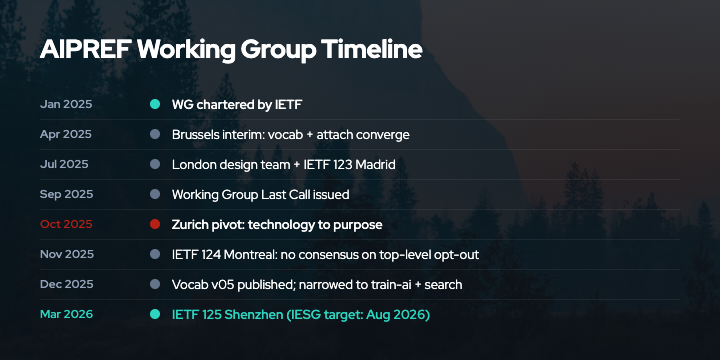
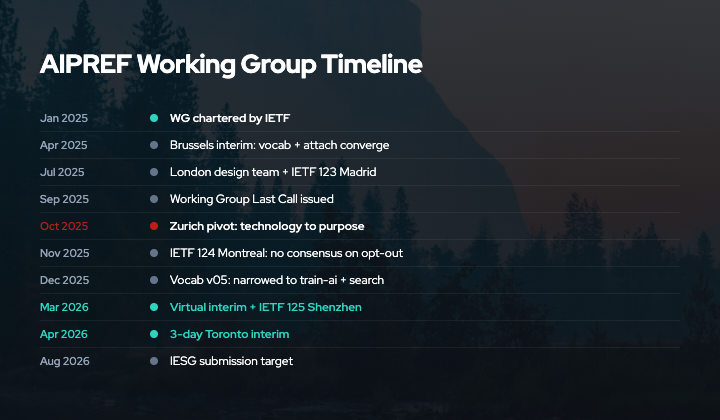
Add upcoming AIPREF events, open debates, and new references

diff --git a/venom-src/src/content/blog/understanding-aipref-ietf-standard.md b/venom-src/src/content/blog/understanding-aipref-ietf-standard.md
@@ -165,6 +165,10 @@ The pivot initially proposed additional categories ("AI Output" for generative A
 
 The pivot also means the drafts are still evolving. The current vocabulary (version 05, December 2025) and attachment mechanism (version 04, October 2025) reflect the new approach but have not yet achieved consensus<sup><a href="#ref-10">10</a></sup>. At IETF 124 in Montreal (November 2025), the working group held two sessions on the vocabulary and attachment mechanism. One key unresolved question: whether to add a top-level opt-out category that would let publishers reject all AI-related uses with a single preference. Proponents want a broad opt-out mechanism; opponents argue it could inhibit beneficial uses like accessibility tools. The chairs committed to gathering specific use cases on the mailing list before deciding.
 
+Several open questions remain as of early 2026. The "substitutive use" gap -- AI outputs that replace or reduce the value of original content, like news summaries or style mimicry -- is not covered by `train-ai` or `search`. An individual draft proposes a new category for this<sup><a href="#ref-22">22</a></sup>. The definition of "search" itself is contested: where does traditional web search end and RAG-powered AI summarization begin? And a separate draft raises the question of end-user preferences versus publisher preferences<sup><a href="#ref-23">23</a></sup> -- site operators control preference signals, but they do not necessarily own all content on their sites. The working group has not yet addressed user-generated content scenarios.
+
+On the mailing list, a debate about legal enforceability has intensified. The vocab specification says preferences "do not themselves create rights or prohibitions," but participants are debating whether a standards-track RFC creates de facto legal standing in jurisdictions with TDM laws or AI-specific regulations. A separate technical question surfaced in February 2026: when an HTTP `Content-Usage` header and a robots.txt `Content-Usage` directive give conflicting preferences for the same path, the resolution semantics need clarification.
+
 ## Timeline and Current Status
 
 ![AIPREF timeline from January 2025 charter through Brussels, Bangkok, London, Madrid, WGLC, Zurich pivot, IETF 124 Montreal, to IETF 125 Shenzhen](/images/diagrams/aipref-timeline.png)
@@ -181,10 +185,14 @@ The pivot also means the drafts are still evolving. The current vocabulary (vers
 - **IETF 124, Montreal** (November 2025): Two sessions; consensus reached on separating "search" from other AI uses, but no consensus on a top-level opt-out category
 - **November 2025**: "AI Output" and "Automated Processing" categories removed from vocabulary draft, narrowing back to two categories (`train-ai`, `search`)
 - **December 2025**: Updated vocabulary draft (v05) published reflecting refined purpose-based approach<sup><a href="#ref-3">3</a></sup>
-- **IETF 125, Shenzhen** (March 2026): Next scheduled AIPREF session
+- **March 3, 2026**: Virtual interim focused on vocabulary issues; ~20 open GitHub issues on terminology, training scope, search definition, and preference model
+- **IETF 125, Shenzhen** (March 16, 2026): Confirmed AIPREF session
+- **April 14-16, 2026, Toronto**: Three-day in-person interim -- a significant time commitment signaling the chairs' intent to close major open issues
 - **August 2026**: Current IESG submission target for both drafts
 
-The original ambitious timeline (IESG submission by August 2025) slipped after the October pivot and has been rescheduled to August 2026. This is not unusual for IETF standards work. The pivot reflects genuine engagement with the problem rather than rushing to publish something inadequate. Getting the vocabulary right matters more than shipping quickly, because changing fundamental terms after deployment creates confusion rather than resolving it.
+The pace is accelerating. Three meetings in six weeks (March-April 2026) suggests the chairs believe the remaining issues are tractable but need concentrated face-to-face time. The original ambitious timeline (IESG submission by August 2025) slipped after the October pivot and has been rescheduled to August 2026. The Toronto interim leaves limited margin for further delays if the August target is to hold.
+
+This timeline is not unusual for IETF standards work. The pivot reflects genuine engagement with the problem rather than rushing to publish something inadequate. Getting the vocabulary right matters more than shipping quickly, because changing fundamental terms after deployment creates confusion rather than resolving it.
 
 ## AIPREF vs robots.txt
 
@@ -281,4 +289,6 @@ For foundational context on why these preference signals matter, see our [Why VE
 <li id="ref-19">Cloudflare (2025). "Control Content Use for AI Training with Cloudflare's Managed Robots.txt." <a href="https://blog.cloudflare.com/control-content-use-for-ai-training/">https://blog.cloudflare.com/control-content-use-for-ai-training/</a></li>
 <li id="ref-20">APNIC Blog (2025). "IETF Setting Standards for AI Preferences." <a href="https://blog.apnic.net/2025/04/08/ietf-setting-standards-for-ai-preferences/">https://blog.apnic.net/2025/04/08/ietf-setting-standards-for-ai-preferences/</a></li>
 <li id="ref-21">Computerworld (2025). "IETF Hatching a New Way to Tame Aggressive AI Website Scraping." <a href="https://www.computerworld.com/article/3958587/ietf-hatching-a-new-way-to-tame-aggressive-ai-website-scraping.html">https://www.computerworld.com/article/3958587/ietf-hatching-a-new-way-to-tame-aggressive-ai-website-scraping.html</a></li>
+<li id="ref-22">Silver, B. "Substitutive Use Category for AI Preferences Vocabulary." draft-silver-aipref-vocab-substitutive-00. <a href="https://datatracker.ietf.org/doc/draft-silver-aipref-vocab-substitutive/">https://datatracker.ietf.org/doc/draft-silver-aipref-vocab-substitutive/</a></li>
+<li id="ref-23">Badii, F., Bailey, L., Levy, J. "End-User Considerations for AI Preferences." draft-farzdusa-aipref-enduser-00. <a href="https://datatracker.ietf.org/doc/draft-farzdusa-aipref-enduser/">https://datatracker.ietf.org/doc/draft-farzdusa-aipref-enduser/</a></li>
 </ol>
